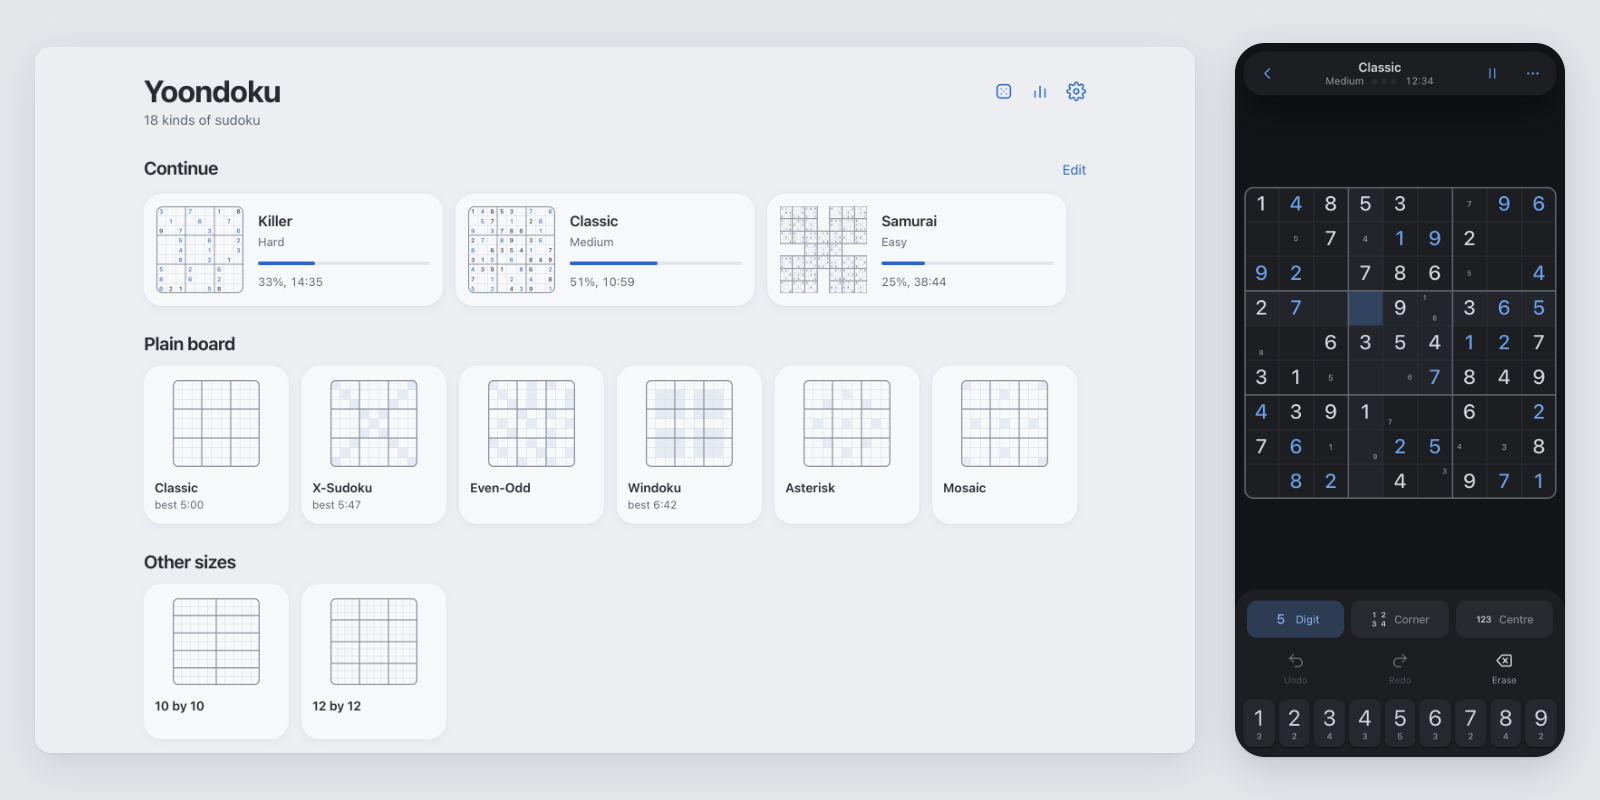
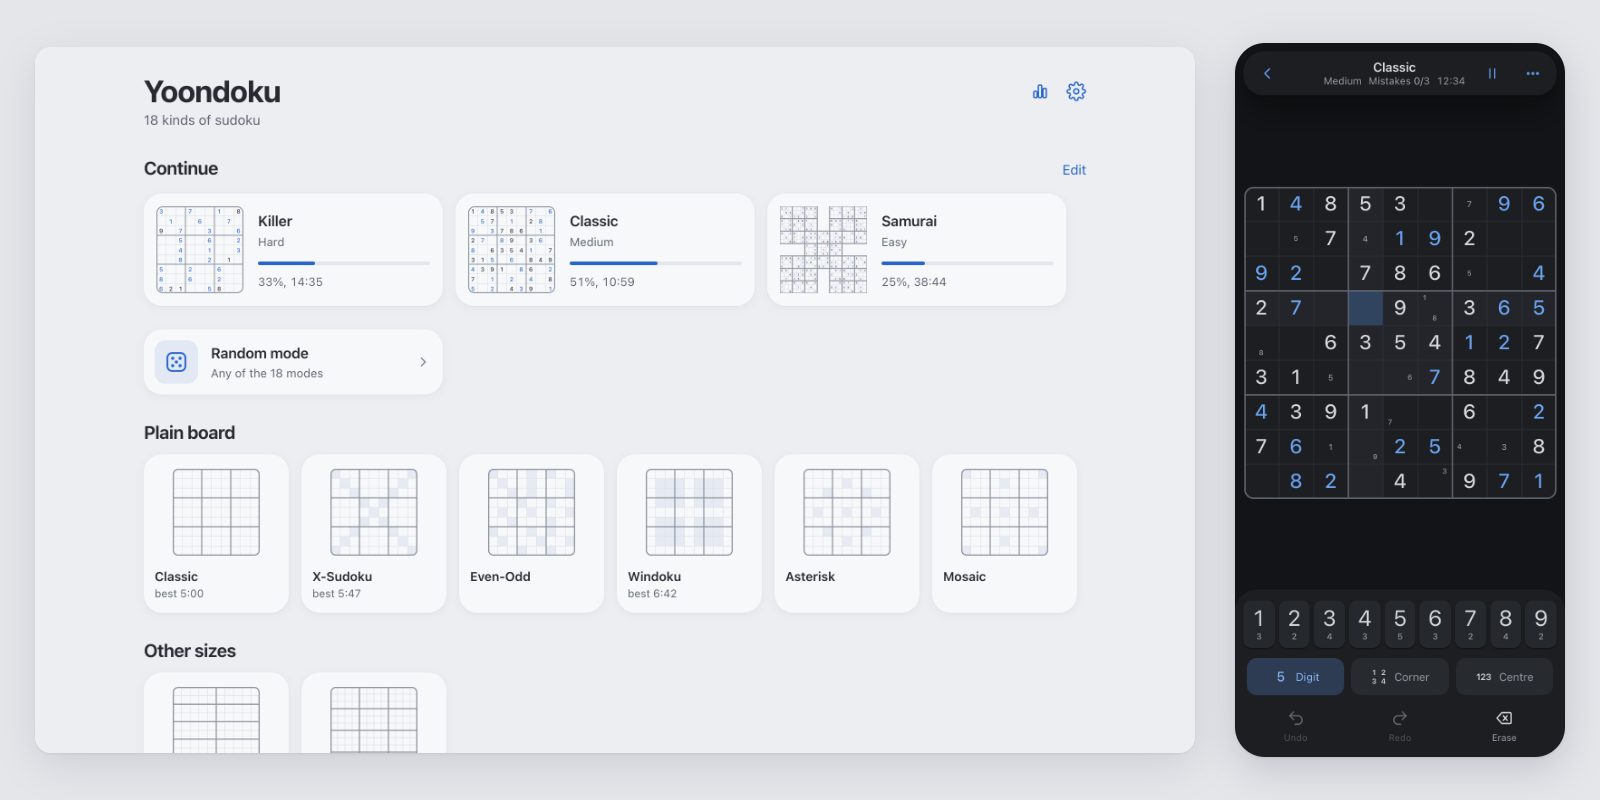
polish small details across the site

diff --git a/index.html b/index.html
@@ -5,7 +5,14 @@
 <meta name="viewport" content="width=device-width, initial-scale=1.0, viewport-fit=cover">
 <meta name="theme-color" content="#eceef2" id="metaTheme">
 <title>Yoondoku</title>
+<meta name="author" content="yoonzky">
 <meta name="description" content="Yoondoku: sudoku in the browser, eighteen modes, four levels, pencil marks and statistics. No accounts, no ads.">
+<meta property="og:type" content="website">
+<meta property="og:title" content="Yoondoku">
+<meta property="og:description" content="Eighteen kinds of sudoku in the browser: four levels, pencil marks and statistics. No accounts, no ads.">
+<meta property="og:url" content="https://yoonzky.github.io/yoondoku/">
+<meta property="og:image" content="https://yoonzky.github.io/yoondoku/icons/icon-512.png">
+<meta name="twitter:card" content="summary">
 <link rel="manifest" href="manifest.webmanifest">
 <link rel="icon" href="icons/icon.svg" type="image/svg+xml">
 <link rel="stylesheet" href="css/tokens.css">
@@ -21,8 +28,7 @@
     <header class="home-head">
       <div class="ttl"><h1 id="homeTitle">Yoondoku</h1><p class="tagline" data-i18n="tagline">18 видов судоку</p></div>
       <div class="tb">
-        <button type="button" class="ibtn" id="rndBtn" data-i18n-aria="random" aria-label="Случайная партия"><svg class="icon" viewBox="0 0 24 24" aria-hidden="true"><rect x="4" y="4" width="16" height="16" rx="4"/><path d="M9 9h.01M15 15h.01M15 9h.01M9 15h.01M12 12h.01"/></svg></button>
-        <button type="button" class="ibtn" id="statsBtn" data-i18n-aria="stats" aria-label="Статистика"><svg class="icon" viewBox="0 0 24 24" aria-hidden="true"><path d="M6 19v-7M12 19V6M18 19v-10"/></svg></button>
+        <button type="button" class="ibtn" id="statsBtn" data-i18n-aria="stats" aria-label="Статистика"><svg class="icon" viewBox="0 0 24 24" aria-hidden="true"><rect x="4.5" y="12" width="4" height="7.5" rx="1.2"/><rect x="10" y="4.5" width="4" height="15" rx="1.2"/><rect x="15.5" y="8.5" width="4" height="11" rx="1.2"/></svg></button>
         <button type="button" class="ibtn" id="setBtn" data-i18n-aria="settings" aria-label="Настройки"><svg class="icon" viewBox="0 0 24 24" aria-hidden="true"><circle cx="12" cy="12" r="3"/><path d="M19.4 15a1.6 1.6 0 0 0 .3 1.8l.1.1a2 2 0 1 1-2.8 2.8l-.1-.1a1.6 1.6 0 0 0-1.8-.3 1.6 1.6 0 0 0-1 1.5V21a2 2 0 1 1-4 0v-.1a1.6 1.6 0 0 0-1-1.5 1.6 1.6 0 0 0-1.8.3l-.1.1a2 2 0 1 1-2.8-2.8l.1-.1a1.6 1.6 0 0 0 .3-1.8 1.6 1.6 0 0 0-1.5-1H3a2 2 0 1 1 0-4h.1a1.6 1.6 0 0 0 1.5-1 1.6 1.6 0 0 0-.3-1.8l-.1-.1a2 2 0 1 1 2.8-2.8l.1.1a1.6 1.6 0 0 0 1.8.3H9a1.6 1.6 0 0 0 1-1.5V3a2 2 0 1 1 4 0v.1a1.6 1.6 0 0 0 1 1.5 1.6 1.6 0 0 0 1.8-.3l.1-.1a2 2 0 1 1 2.8 2.8l-.1.1a1.6 1.6 0 0 0-.3 1.8V9a1.6 1.6 0 0 0 1.5 1H21a2 2 0 1 1 0 4h-.1a1.6 1.6 0 0 0-1.5 1Z"/></svg></button>
       </div>
     </header>
@@ -30,19 +36,22 @@
       <div class="shelf-head"><h2 data-i18n="continue">Продолжить</h2><button type="button" class="link" id="editBtn">Изменить</button></div>
       <div class="shelf" id="contShelf"></div>
     </section>
+    <button type="button" class="rnd-card" id="rndBtn"><span class="dice"><svg viewBox="0 0 24 24" aria-hidden="true"><rect x="3.5" y="3.5" width="17" height="17" rx="4.5"/><circle cx="8.5" cy="8.5" r="1.5"/><circle cx="15.5" cy="8.5" r="1.5"/><circle cx="12" cy="12" r="1.5"/><circle cx="8.5" cy="15.5" r="1.5"/><circle cx="15.5" cy="15.5" r="1.5"/></svg></span><span class="info"><b data-i18n="m_random">Случайный режим</b><small id="rndSub"></small></span><svg class="icon chev" viewBox="0 0 24 24" aria-hidden="true"><path d="m9.5 5.5 6.5 6.5-6.5 6.5"/></svg></button>
     <div id="shelves"></div>
+    <footer class="site-foot"><span>&copy; 2026 yoonzky</span><a href="https://github.com/yoonzky/yoondoku" target="_blank" rel="noopener">GitHub</a></footer>
   </div>
 </div>
 
 <div id="game" class="screen game hidden">
   <div class="gbar">
     <button type="button" class="ibtn" id="backBtn" data-i18n-aria="back" aria-label="Режимы"><svg class="icon" viewBox="0 0 24 24" aria-hidden="true"><path d="m15 18-6-6 6-6"/></svg></button>
-    <div class="gt"><h1 id="gMode" class="gm">Yoondoku</h1><div class="sub"><small id="gDiff"></small><span class="mist" id="gMist" role="img"></span></div></div>
+    <div class="gt"><h1 id="gMode" class="gm">Yoondoku</h1><div class="sub"><small id="gDiff"></small><span class="mist num" id="gMist" role="img"></span></div></div>
     <span class="div"></span>
     <span class="timer num" id="gTime">0:00</span>
-    <button type="button" class="ibtn hidden" id="zoomBtn" data-i18n-aria="zoom" aria-label="Масштаб поля"></button>
-    <button type="button" class="ibtn" id="pauseBtn" aria-label="Пауза"></button>
-    <button type="button" class="ibtn" id="moreBtn" data-i18n-aria="more" aria-label="Ещё" aria-haspopup="menu"><svg class="icon" viewBox="0 0 24 24" aria-hidden="true"><circle cx="6" cy="12" r=".6"/><circle cx="12" cy="12" r=".6"/><circle cx="18" cy="12" r=".6"/></svg></button>
+    <div class="gr">
+      <button type="button" class="ibtn" id="pauseBtn" aria-label="Пауза"></button>
+      <button type="button" class="ibtn" id="moreBtn" data-i18n-aria="more" aria-label="Ещё" aria-haspopup="menu"><svg class="icon" viewBox="0 0 24 24" aria-hidden="true"><circle cx="6" cy="12" r="1.1"/><circle cx="12" cy="12" r="1.1"/><circle cx="18" cy="12" r="1.1"/></svg></button>
+    </div>
   </div>
   <div class="gstage">
     <div class="bwrap" id="bwrap">
@@ -51,6 +60,7 @@
     </div>
     <aside class="pad hidden" id="pad"></aside>
     <div class="minimap hidden" id="mini" aria-hidden="true"></div>
+    <button type="button" class="ibtn zoomfab hidden" id="zoomBtn" data-i18n-aria="zoom" aria-label="Масштаб поля"></button>
   </div>
   <div class="gen hidden" id="gen"><b data-i18n="gen">Раскладываю поле</b><div class="gbarline"><i></i></div><small data-i18n="genCancel"></small></div>
 </div>

diff --git a/css/game.css b/css/game.css
@@ -9,11 +9,10 @@
 .gbar .sub{display:flex;align-items:center;gap:8px}
 .gbar .div{width:.5px;height:22px;background:var(--sep);margin:0 6px}
 .gbar .timer{font-size:15px;color:var(--text-2);min-width:44px;text-align:right;padding-right:2px}
-.mist{display:flex;gap:4px;padding:0 2px}
-.mist i{width:7px;height:7px;border-radius:4px;background:var(--surface-2)}
-.mist i.on{background:var(--red)}
-.mist.n{font-size:13px;color:var(--text-2)}
-.mist.n b{color:var(--red);font-weight:500}
+.gbar .gr{display:flex;align-items:center;gap:4px}
+.mist{font-size:13px;color:var(--text-2);white-space:nowrap}
+.mist b{font-weight:500}
+.mist.on b{color:var(--red)}
 
 .gstage{position:absolute;inset:0;display:flex;align-items:center;justify-content:center;gap:40px;padding:80px 32px 28px}
 .bwrap{position:relative;flex:none}
@@ -114,10 +113,13 @@ body.paused .pad{opacity:.45;pointer-events:none;transition:opacity .2s}
 .gen small{font-size:12.5px;color:var(--text-2)}
 
 /* narrow or upright: board on top, tray at the bottom under the thumb */
-body.col .gbar{position:relative;left:auto;top:auto;transform:none;margin:calc(10px + env(safe-area-inset-top)) 10px 0;justify-content:space-between}
-body.col .gbar .gt{flex:1;flex-direction:column;align-items:center;gap:1px;line-height:1.15}
+/* title in the middle of the capsule whatever the buttons on either side */
+body.col .gbar{position:relative;left:auto;top:auto;transform:none;margin:calc(10px + env(safe-area-inset-top)) 10px 0;display:grid;grid-template-columns:minmax(44px,1fr) minmax(0,auto) minmax(max-content,1fr)}
+body.col .gbar #backBtn{justify-self:start}
+body.col .gbar .gr{justify-self:end}
+body.col .gbar .gt{min-width:0;overflow:hidden;flex-direction:column;align-items:center;gap:1px;line-height:1.15}
 body.col .gbar .gt .gm{max-width:100%}
-body.col .gbar .sub small{font-size:12px}
+body.col .gbar .sub small,body.col .gbar .mist{font-size:12px}
 body.col .gbar .sub .timer{font-size:12px;min-width:0;padding:0;order:2}
 body.col .gbar .div{display:none}
 body.col .gbar{height:52px}
@@ -127,6 +129,7 @@ body.col .bwrap{flex:1;min-height:0;display:flex;align-items:center;justify-cont
 body.col .bwrap.zoom{display:block;overflow:auto;scrollbar-width:none;overscroll-behavior:contain}
 .bwrap.zoom::-webkit-scrollbar{display:none}
 .bwrap.zoom .board{margin:12px;touch-action:pan-x pan-y}
+.zoomfab{position:absolute;right:12px;z-index:4;background:var(--glass);-webkit-backdrop-filter:blur(16px);backdrop-filter:blur(16px);box-shadow:var(--shadow-1)}
 .minimap{position:absolute;left:12px;z-index:4;border-radius:10px;padding:5px;background:var(--glass);-webkit-backdrop-filter:blur(16px);backdrop-filter:blur(16px);box-shadow:var(--shadow-1);cursor:pointer}
 .minimap svg{width:100%;height:100%}
 .minimap rect{fill:var(--surface);stroke:var(--rule);stroke-width:.35}
@@ -136,6 +139,8 @@ body.col .modes{padding:0 4px}
 body.col .modes button{height:44px;flex-direction:row;gap:8px;font-size:13px}
 body.col .keys{grid-template-columns:repeat(var(--kc),1fr);gap:5px}
 @media (max-width:360px){ body.col .pad{padding-left:6px;padding-right:6px} body.col .keys{gap:3px} }
+@media (max-width:380px){ body.col .gbar .sub{gap:6px} body.col .gbar .sub small,body.col .gbar .mist,body.col .gbar .sub .timer{font-size:11px} }
+@media (max-width:340px){ body.col .gbar #gDiff{display:none} }
 body.col .key{height:56px;font-size:26px;border-radius:9px}
 body.col .keys.two .key{height:48px;font-size:22px}
 body.col .key small{margin-top:4px;font-size:10px}
@@ -160,7 +165,7 @@ body.col .cover{border-radius:0}
   .selbox{transition:none}
 }
 @media (prefers-reduced-transparency:reduce){
-  .gbar,.pad,.gen,.cover{background:var(--raise);-webkit-backdrop-filter:none;backdrop-filter:none}
+  .gbar,.pad,.gen,.cover,.zoomfab{background:var(--raise);-webkit-backdrop-filter:none;backdrop-filter:none}
 }
 @keyframes wave{40%{background-color:var(--tint)}}
 

diff --git a/css/home.css b/css/home.css
@@ -12,7 +12,7 @@
 .shelf::-webkit-scrollbar{display:none}
 .shelf>*{scroll-snap-align:start;flex:none}
 
-.cont{position:relative;display:flex;gap:16px;align-items:center;width:330px;padding:14px;background:var(--surface);border-radius:var(--r-tile);box-shadow:var(--shadow-1);text-align:left;transition:transform .12s ease-out}
+.cont{position:relative;display:flex;gap:16px;align-items:center;width:330px;padding:14px;background:var(--surface);border-radius:var(--r-tile);box-shadow:var(--shadow-1);text-align:left;transition:transform .2s ease-out,box-shadow .2s ease-out}
 .cont:active{transform:scale(.98)}
 .cont .mini{width:96px;height:96px;flex:none;display:grid;place-items:center}
 .cont .info{display:flex;flex-direction:column;gap:3px;flex:1;min-width:0}
@@ -27,8 +27,31 @@
 @media (hover:hover){ .cont .del:hover{background:var(--text)} }
 .editing .cont:active{transform:none}
 
-.tile{width:160px;padding:12px;background:var(--surface);border-radius:var(--r-tile);box-shadow:var(--shadow-1);display:flex;flex-direction:column;align-items:stretch;gap:10px;text-align:left;transition:transform .12s ease-out}
+.tile{width:160px;padding:12px;background:var(--surface);border-radius:var(--r-tile);box-shadow:var(--shadow-1);display:flex;flex-direction:column;align-items:stretch;gap:10px;text-align:left;transition:transform .2s ease-out,box-shadow .2s ease-out}
 .tile:active{transform:scale(.97)}
+/* cards rise under the pointer */
+@media (hover:hover){
+  .tile:hover,.cont:hover,.rnd-card:hover{transform:translateY(-2px);box-shadow:var(--shadow-h)}
+  .tile:hover:active{transform:scale(.97)}
+  .cont:hover:active,.rnd-card:hover:active{transform:scale(.98)}
+  .editing .cont:hover{transform:none;box-shadow:var(--shadow-1)}
+}
+@media (prefers-reduced-motion:reduce){ .tile:hover,.cont:hover,.rnd-card:hover{transform:none} }
+
+.site-foot{display:flex;justify-content:center;gap:14px;margin-top:44px;font-size:13px;color:var(--text-2)}
+.site-foot a{color:var(--accent);text-decoration:none;transition:color .12s}
+@media (hover:hover){ .site-foot a:hover{color:var(--accent-ink)} }
+
+/* random mode, a card of its own */
+.rnd-card{display:flex;align-items:center;gap:14px;width:330px;margin-top:26px;padding:12px 14px 12px 12px;background:var(--surface);border-radius:var(--r-tile);box-shadow:var(--shadow-1);text-align:left;transition:transform .2s ease-out,box-shadow .2s ease-out}
+.rnd-card:active{transform:scale(.98)}
+.rnd-card .dice{width:48px;height:48px;flex:none;border-radius:12px;background:var(--tint);color:var(--accent);display:grid;place-items:center}
+.rnd-card .dice svg{width:28px;height:28px;fill:none;stroke:currentColor;stroke-width:1.7}
+.rnd-card .dice circle{fill:currentColor;stroke:none}
+.rnd-card .info{display:flex;flex-direction:column;gap:2px;min-width:0;flex:1}
+.rnd-card b{font-size:16px;font-weight:600;letter-spacing:-.01em}
+.rnd-card small{font-size:13px;color:var(--text-2)}
+.rnd-card .chev{width:16px;height:16px;color:var(--text-3);stroke-width:2.2}
 .tile .art{height:104px;display:grid;place-items:center}
 .tile b{font-size:14px;font-weight:600;letter-spacing:-.006em;line-height:1.25}
 .tile small{font-size:12px;color:var(--text-2);margin-top:-8px;min-height:15px}
@@ -78,6 +101,7 @@
   .shelf{margin:-12px 0;padding:12px 20px;scroll-padding:0 20px;gap:12px}
   .cont{width:min(300px,calc(100vw - 72px))}
   .tile{width:140px}
+  .rnd-card{margin:22px 20px 0;width:calc(100% - 40px)}
   .tile .art{height:92px}
   .cont .mini svg{width:100%;height:auto}
   .msheet,.msheet.rnd{grid-template-columns:1fr;gap:18px}
@@ -115,6 +139,7 @@
   .cont b{font-size:15px}
 }
 @media (pointer:coarse){
+  .site-foot a{padding:13px 6px;margin:-13px -6px}
   .shelf-head .link{padding:11px 0;margin:-11px 0}
   .pool-bar .link{padding:12px 8px}
 }

diff --git a/js/app/util.js b/js/app/util.js
@@ -28,14 +28,14 @@ const ICON={
   bulb:'<path d="M9 18h6M10 21h4"/><path d="M12 3a6 6 0 0 0-3.5 10.9c.6.5 1 1.2 1 2.1h5c0-.9.4-1.6 1-2.1A6 6 0 0 0 12 3Z"/>',
   pause:'<path d="M9 6v12M15 6v12"/>',
   play:'<path d="M8 5.5v13l10.5-6.5Z"/>',
-  chart:'<path d="M6 19v-7M12 19V6M18 19v-10"/>',
+  chart:'<rect x="4.5" y="12" width="4" height="7.5" rx="1.2"/><rect x="10" y="4.5" width="4" height="15" rx="1.2"/><rect x="15.5" y="8.5" width="4" height="11" rx="1.2"/>',
   gear:'<circle cx="12" cy="12" r="3"/><path d="M19.4 15a1.6 1.6 0 0 0 .3 1.8l.1.1a2 2 0 1 1-2.8 2.8l-.1-.1a1.6 1.6 0 0 0-1.8-.3 1.6 1.6 0 0 0-1 1.5V21a2 2 0 1 1-4 0v-.1a1.6 1.6 0 0 0-1-1.5 1.6 1.6 0 0 0-1.8.3l-.1.1a2 2 0 1 1-2.8-2.8l.1-.1a1.6 1.6 0 0 0 .3-1.8 1.6 1.6 0 0 0-1.5-1H3a2 2 0 1 1 0-4h.1a1.6 1.6 0 0 0 1.5-1 1.6 1.6 0 0 0-.3-1.8l-.1-.1a2 2 0 1 1 2.8-2.8l.1.1a1.6 1.6 0 0 0 1.8.3H9a1.6 1.6 0 0 0 1-1.5V3a2 2 0 1 1 4 0v.1a1.6 1.6 0 0 0 1 1.5 1.6 1.6 0 0 0 1.8-.3l.1-.1a2 2 0 1 1 2.8 2.8l-.1.1a1.6 1.6 0 0 0-.3 1.8V9a1.6 1.6 0 0 0 1.5 1H21a2 2 0 1 1 0 4h-.1a1.6 1.6 0 0 0-1.5 1Z"/>',
   back:'<path d="m15 18-6-6 6-6"/>',
   close:'<path d="M17 7 7 17M7 7l10 10"/>',
-  more:'<circle cx="6" cy="12" r=".6"/><circle cx="12" cy="12" r=".6"/><circle cx="18" cy="12" r=".6"/>',
+  more:'<circle cx="6" cy="12" r="1.1"/><circle cx="12" cy="12" r="1.1"/><circle cx="18" cy="12" r="1.1"/>',
   dice:'<rect x="4" y="4" width="16" height="16" rx="4"/><path d="M9 9h.01M15 15h.01M15 9h.01M9 15h.01M12 12h.01"/>',
   restart:'<path d="M4 12a8 8 0 1 0 2.3-5.6L4 8.7"/><path d="M4 4v4.7h4.7"/>',
-  book:'<path d="M4 5.5A1.5 1.5 0 0 1 5.5 4H11v16H5.5A1.5 1.5 0 0 1 4 18.5ZM20 5.5A1.5 1.5 0 0 0 18.5 4H13v16h5.5a1.5 1.5 0 0 0 1.5-1.5Z"/>',
+  book:'<path d="M12 6.8C10.3 5.6 8.1 5 5.2 5.1A1.2 1.2 0 0 0 4 6.3v10.9c0 .7.6 1.2 1.3 1.2 2.8-.1 5 .5 6.7 1.8 1.7-1.3 3.9-1.9 6.7-1.8.7 0 1.3-.5 1.3-1.2V6.3a1.2 1.2 0 0 0-1.2-1.2C15.9 5 13.7 5.6 12 6.8Z"/><path d="M12 6.8V20"/>',
   check:'<path d="m5 12.5 4.5 4.5L19 7.5"/>',
   minus:'<path d="M6 12h12"/>',
   zoomIn:'<circle cx="11" cy="11" r="6.5"/><path d="m16 16 4.5 4.5M8.4 11h5.2M11 8.4v5.2"/>',

diff --git a/js/app/i18n.js b/js/app/i18n.js
@@ -47,7 +47,7 @@ ru:{
   delGameQ:'Удалить эту партию?', delete:'Удалить', cancel:'Отмена',
   stats:'Статистика', settings:'Настройки', random:'Случайная партия',
   best:'рекорд {t}', notPlayed:'не играли', inProgress:'идёт партия', playLv:'Играть', level:'Уровень',
-  pool:'Режимы в наборе', poolN:'в наборе {n}', poolAll:'Все', poolNone:'Снять', poolEmpty:'Отметьте хотя бы один режим',
+  pool:'Режимы в наборе', poolN:'в наборе {n}', rndAll:'Любой из 18 режимов', rndSome:'В наборе {n} из 18', poolAll:'Все', poolNone:'Снять', poolEmpty:'Отметьте хотя бы один режим',
   close:'Закрыть', back:'Режимы', more:'Ещё', zoom:'Масштаб поля', rules:'Правила', restart:'Начать заново',
   restartQ:'Начать эту партию заново? Всё, что стоит на поле, сотрётся.',
   pause:'Пауза', resume:'Продолжить', pauseTap:'нажмите, чтобы продолжить',
@@ -130,7 +130,7 @@ en:{
   delGameQ:'Delete this game?', delete:'Delete', cancel:'Cancel',
   stats:'Statistics', settings:'Settings', random:'Random game',
   best:'best {t}', notPlayed:'not played', inProgress:'in progress', playLv:'Play', level:'Level',
-  pool:'Modes in the pool', poolN:'{n} in the pool', poolAll:'All', poolNone:'None', poolEmpty:'Pick at least one mode',
+  pool:'Modes in the pool', poolN:'{n} in the pool', rndAll:'Any of the 18 modes', rndSome:'{n} of 18 in the pool', poolAll:'All', poolNone:'None', poolEmpty:'Pick at least one mode',
   close:'Close', back:'Modes', more:'More', zoom:'Board zoom', rules:'Rules', restart:'Start over',
   restartQ:'Start this game over? Everything on the board will be cleared.',
   pause:'Paused', resume:'Resume', pauseTap:'tap to carry on',

diff --git a/js/app/game.js b/js/app/game.js
@@ -407,7 +407,8 @@ function renderPad(){
   if(SES.settings.hintBtn) tools.push(['hint','bulb']);
   h+=`<div class="tools" id="tools">${tools.map(([k,i])=>`<button class="tool" data-t="${k}">${ic(i)}${t(k)}</button>`).join('')}</div>`;
   pad.innerHTML=h;
-  if(col){ const k=$('keys'), tl=$('tools'); if(k) pad.insertBefore(tl,k) }
+  /* on a phone the digits come first, right under the board */
+  if(col&&$('keys')) pad.insertBefore($('keys'),pad.firstChild);
   paintPad();
 }
 function paintPad(){
@@ -432,9 +433,8 @@ function paintPad(){
   if(tb('redo')) tb('redo').disabled=!U.redo.length;
   const mi=$('gMist'), lim=SES.settings.limit&&G.instant&&!G.noLimit;
   if(!G.instant){ mi.className='mist hidden' }
-  else if(lim){ mi.className='mist'; mi.innerHTML=[0,1,2].map(k=>`<i${k<G.mistakes?' class="on"':''}></i>`).join('') }
-  else { mi.className='mist n'; mi.innerHTML=`<b class="num">${G.mistakes}</b>` }
-  mi.setAttribute('aria-label',t('mistakes')+' '+G.mistakes);
+  else { mi.className='mist num'+(G.mistakes?' on':''); mi.innerHTML=`${t('mistakes')} <b>${G.mistakes}</b>${lim?'/3':''}` }
+  mi.setAttribute('aria-label',lim? tf('mistakesN',{n:G.mistakes}) : t('mistakes')+' '+G.mistakes);
 }
 
 /* rail beside the board on a wide screen, a tray under it on a phone or upright tablet */

diff --git a/js/app/sheet.js b/js/app/sheet.js
@@ -119,9 +119,12 @@ function ask(o){
   return new Promise(res=>{
     const bg=document.createElement('div');
     bg.className='alert-bg';
-    bg.innerHTML=`<div class="alert" role="alertdialog" aria-modal="true">${o.title? `<b>${o.title}</b>` : ''}<p>${o.text}</p>
+    bg.innerHTML=`<div class="alert" role="alertdialog" aria-modal="true">${o.title? `<b>${o.title}</b><p>${o.text}</p>` : `<b class="solo">${o.text}</b>`}
       <div class="acts">${o.alt? `<button data-r="alt">${o.alt}</button>` : `<button data-r="no">${t('cancel')}</button>`}<button data-r="ok" class="${o.danger?'danger':'strong'}">${o.ok}</button></div></div>`;
     document.body.appendChild(bg);
+    /* a label that does not fit puts the buttons in a column, as in ios */
+    const acts=bg.querySelector('.acts');
+    if([...acts.children].some(b=>b.scrollWidth>b.clientWidth)) acts.classList.add('stack');
     requestAnimationFrame(()=>bg.classList.add('on'));
     const done=r=>{ bg.remove(); removeEventListener('keydown',key,true); res(r==='ok'? 'ok' : r==='alt'? 'alt' : false) };
     const key=e=>{ if(e.key==='Escape'){ e.stopPropagation(); done(o.alt? 'none' : 'no') } else if(e.key==='Enter'){ e.stopPropagation(); e.preventDefault(); done('ok') } };

diff --git a/css/base.css b/css/base.css
@@ -103,8 +103,12 @@ kbd{display:inline-grid;place-items:center;min-width:24px;height:24px;padding:0 
 .alert b{display:block;font-size:17px;font-weight:600;padding:20px 18px 0;letter-spacing:-.01em}
 .alert p{font-size:14px;line-height:1.4;color:var(--text-2);padding:8px 18px 18px}
 .alert b+p{padding-top:6px}
+.alert b.solo{padding:22px 18px 21px;line-height:1.3}
 .alert .acts{display:flex;border-top:.5px solid var(--sep)}
-.alert .acts button{flex:1;height:46px;font-size:16px;color:var(--accent);transition:background-color .12s}
+.alert .acts button{flex:1;min-width:0;height:46px;padding:0 10px;font-size:16px;color:var(--accent);white-space:nowrap;transition:background-color .12s}
+.alert .acts.stack{flex-direction:column-reverse}
+.alert .acts.stack button{flex:none}
+.alert .acts.stack button+button{border-left:0;border-bottom:.5px solid var(--sep)}
 .alert .acts button:active{background:var(--press)}
 .alert .acts button:focus-visible{outline-offset:-2px}
 @media (hover:hover){ .alert .acts button:hover{background:var(--hover)} }

diff --git a/js/app/home.js b/js/app/home.js
@@ -49,6 +49,7 @@ function renderHome(){
   }
   $('shelves').innerHTML=h;
   $('homeTitle').textContent='Yoondoku';
+  rndSub();
 }
 
 /* the card of a mode opens out of its tile */
@@ -95,11 +96,16 @@ function poolHTML(){
   const on=new Set(SES.settings.pool? SES.settings.pool : MODE_IDS);
   return MODE_IDS.map(m=>`<button data-m="${m}" class="${on.has(m)?'on':''}"><span class="ck">${ic('check')}</span>${modeArt(m,40)}${t('m_'+m)}</button>`).join('');
 }
+function rndSub(){
+  const p=SES.settings.pool, n=p? p.length : MODE_IDS.length;
+  $('rndSub').textContent= !n? t('poolEmpty') : n===MODE_IDS.length? t('rndAll') : tf('rndSome',{n});
+}
 function poolSync(){
   const empty=SES.settings.pool&&!SES.settings.pool.length;
   $('pool').innerHTML=poolHTML();
   $('poolN').textContent= empty? t('poolEmpty') : tf('poolN',{n:poolList().length});
   document.querySelectorAll('.lv').forEach(b=>b.disabled=!!empty);
+  rndSub();
   saveSoon();
 }
 

diff --git a/css/tokens.css b/css/tokens.css
@@ -19,6 +19,7 @@
   --glass:rgba(247,248,250,.76); --scrim:rgba(30,36,48,.26);
   --shadow-1:0 .5px 1px rgba(25,35,55,.05),0 2px 10px rgba(25,35,55,.05);
   --shadow-2:0 1px 2px rgba(25,35,55,.06),0 14px 40px rgba(25,35,55,.12);
+  --shadow-h:0 1px 2px rgba(25,35,55,.06),0 8px 24px rgba(25,35,55,.1);
   --key-shadow:0 .5px 0 rgba(25,35,55,.14),0 1px 4px rgba(25,35,55,.05);
   --zone:#e5eaf3; --zone-edge:#c3cee2; --kk:#e2e5ea; --kk-block:#d3d7de;
   --cage:#a2a8b2; --dot:#4f5560;
@@ -40,6 +41,7 @@
   --glass:rgba(32,34,38,.74); --scrim:rgba(0,0,0,.5);
   --shadow-1:0 .5px 1px rgba(0,0,0,.3),0 2px 10px rgba(0,0,0,.2);
   --shadow-2:0 1px 2px rgba(0,0,0,.3),0 14px 40px rgba(0,0,0,.42);
+  --shadow-h:0 1px 2px rgba(0,0,0,.3),0 8px 24px rgba(0,0,0,.36);
   --key-shadow:0 .5px 0 rgba(0,0,0,.5),0 1px 4px rgba(0,0,0,.25);
   --zone:#222a36; --zone-edge:#34425a; --kk:#24272c; --kk-block:#17181b;
   --cage:#646a74; --dot:#b9bec7;

diff --git a/js/app/main.js b/js/app/main.js
@@ -27,7 +27,7 @@ function swRow(key,title,desc,dis){
 }
 function keysHTML(){
   const M=MAC? 'Cmd' : 'Ctrl';
-  const row=(a,k)=>`<div class="li"><span class="tx">${t(a)}</span><span class="meta">${k}</span></div>`;
+  const row=(a,k)=>`<div class="li"><span class="tx">${t(a).charAt(0).toUpperCase()+t(a).slice(1)}</span><span class="meta">${k}</span></div>`;
   const kb=s=>s.split(' ').map(x=>x==='/'? ` ${t('kOr')} ` : x==='+'? ' + ' : `<kbd>${x}</kbd>`).join('');
   return `<div class="lcap">${t('sGame')}</div><div class="list">`+
     row('kDigit',kb('1 ... 9'))+row('kBig',kb('A B C'))+row('kCorner',kb('Shift + 1'))+row('kCenter',kb(M+' + 1'))+row('kErase',kb('Backspace / 0'))+

diff --git a/js/app/board.js b/js/app/board.js
@@ -154,6 +154,7 @@ function fitBoard(){
   w.classList.toggle('zoom',zoom);
   $('zoomBtn').classList.toggle('hidden',!big);
   $('zoomBtn').innerHTML=ic(zoom?'zoomOut':'zoomIn');
+  if(big) $('zoomBtn').style.bottom=($('pad').offsetHeight+12)+'px';
   const cs=zoom? ZOOM_CS : fit;
   CS=cs;
   BR=Math.round(Math.min(18,Math.max(8,cs*.26)));
